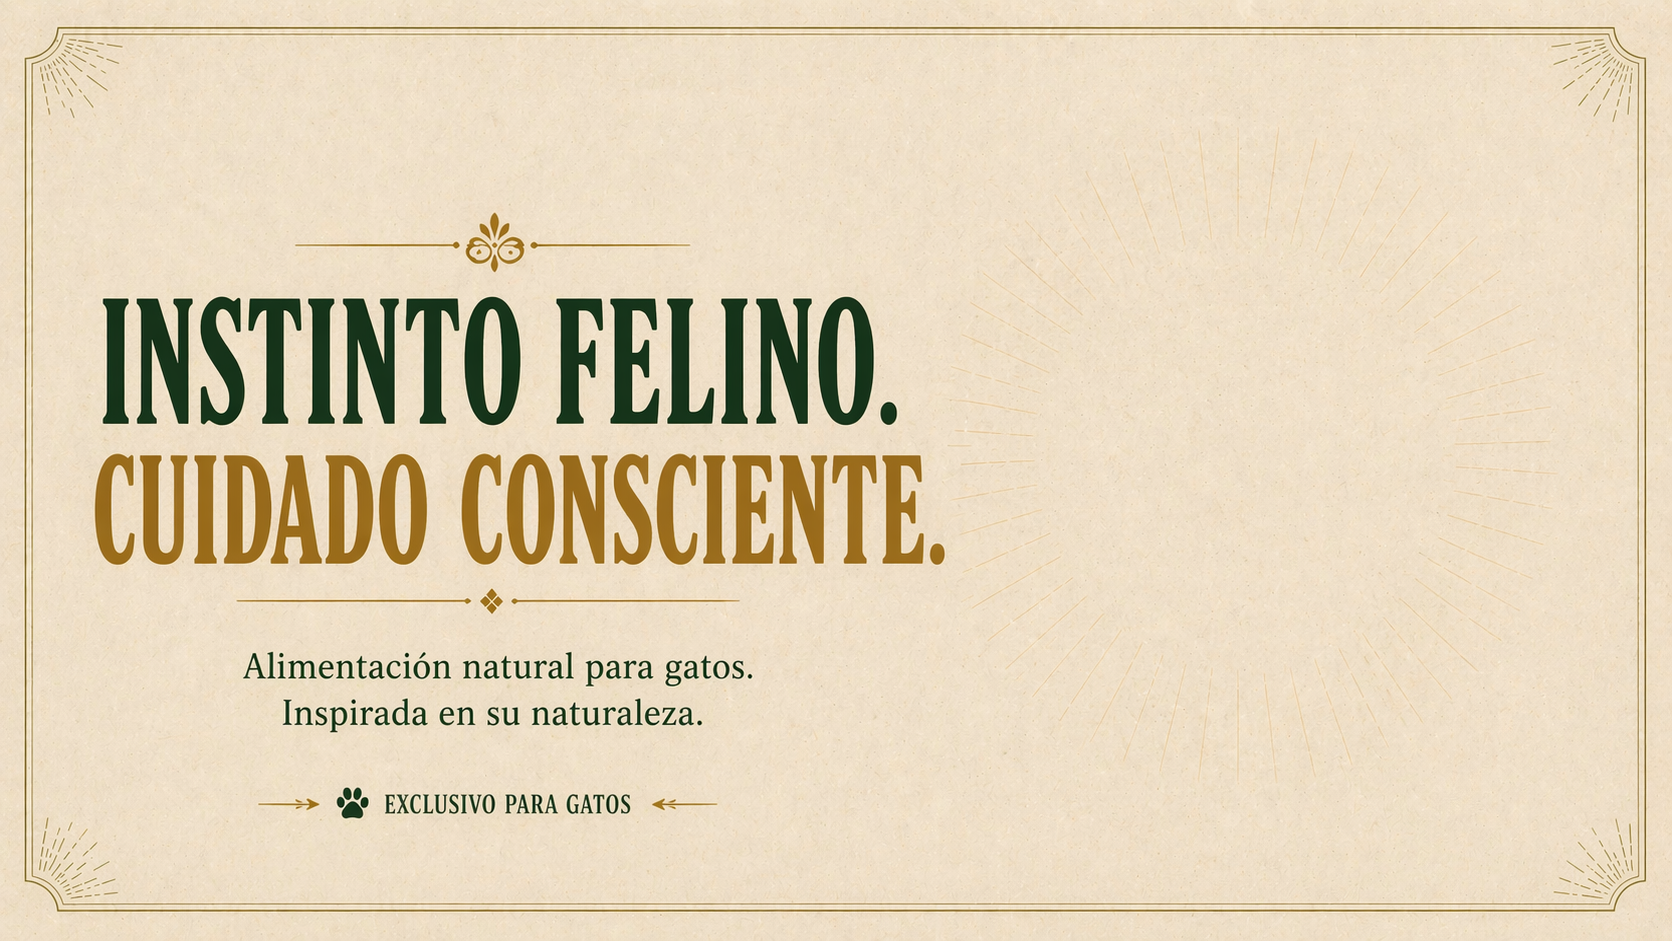
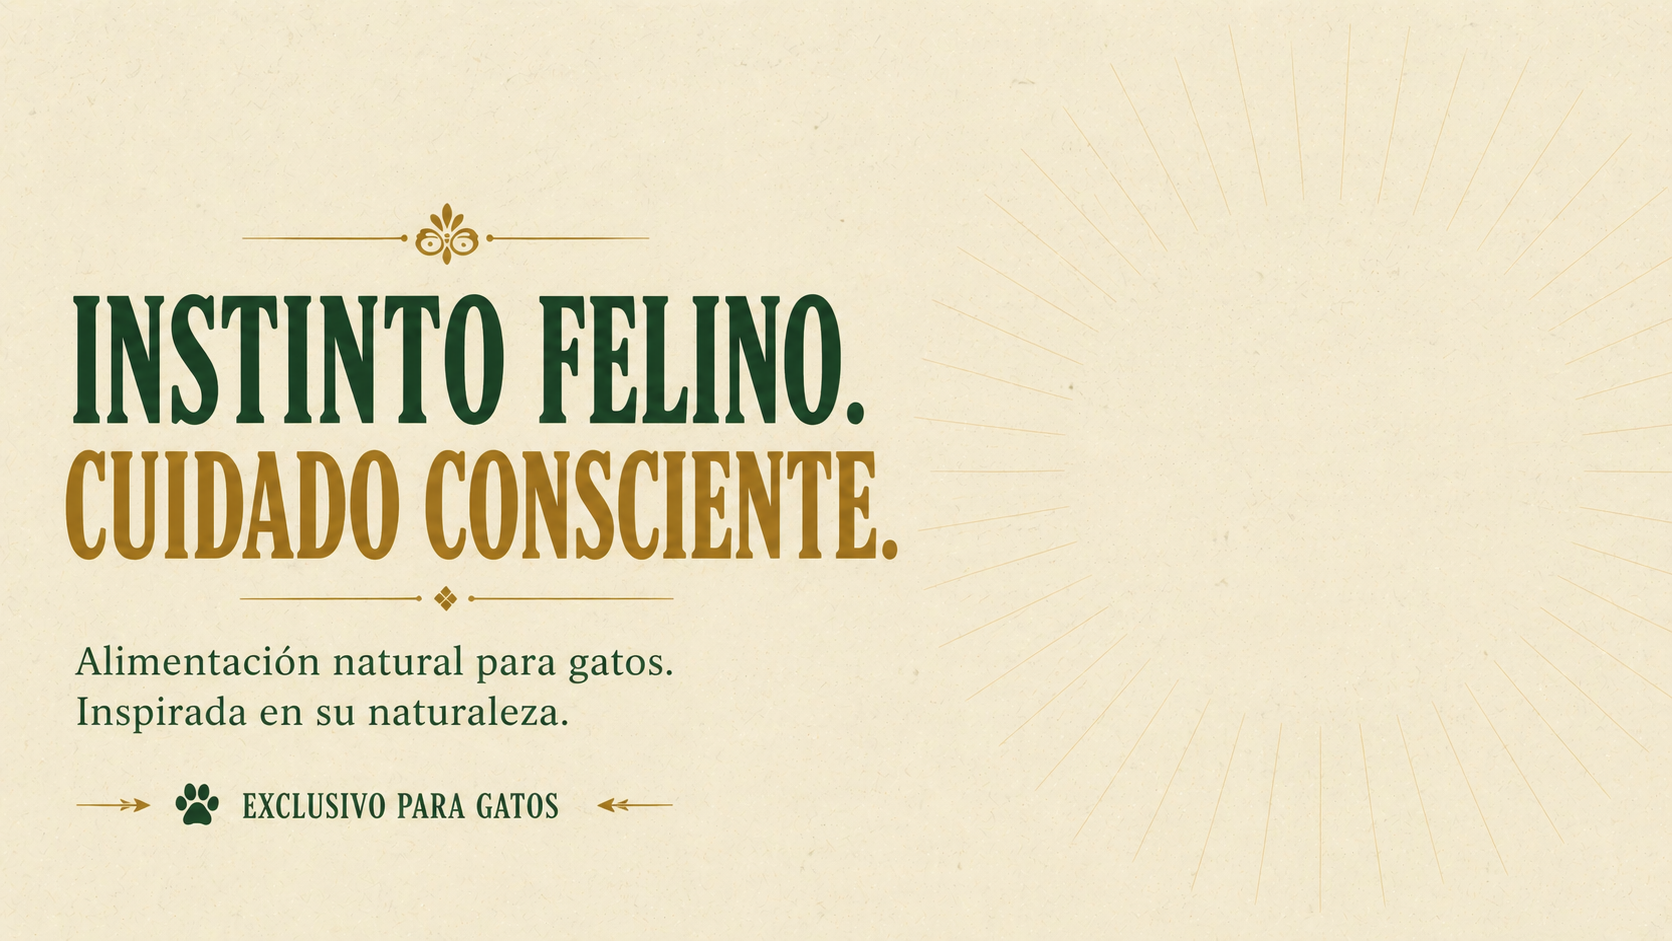
Add files via upload

diff --git a/index.html b/index.html
@@ -807,6 +807,25 @@
   .burger{display:none;width:32px;height:32px;cursor:pointer}
   .burger span{display:block;height:2px;background:var(--cream);margin:7px 0;transition:.3s}
 
+  /* ========== FEATURES BANNER (4 íconos debajo del hero) ========== */
+  .features-banner{
+    background:#f1ecd5;
+    padding:20px 0 30px;
+    width:100%;
+    display:flex;justify-content:center;
+    border-bottom:1px solid rgba(50,57,21,.08);
+  }
+  .features-banner img{
+    display:block;
+    width:96%;
+    max-width:1400px;
+    height:auto;
+  }
+  @media (max-width:600px){
+    .features-banner{padding:12px 0 18px}
+    .features-banner img{width:100%}
+  }
+
   /* ========== HERO (banner image chico + gato animado a la derecha) ========== */
   .hero{
     position:relative;
@@ -1947,13 +1966,18 @@
 <!-- ============= HERO ============= -->
 <section class="hero" id="inicio">
   <div class="hero-stage">
-    <img class="hero-banner" src="assets/hero-instinto.png?v=4" alt="BARFirenzina — Instinto felino, cuidado consciente"/>
+    <img class="hero-banner" src="assets/hero-instinto.png?v=5" alt="BARFirenzina — Instinto felino, cuidado consciente"/>
     <div class="hero-cat" aria-hidden="true">
       <video autoplay muted loop playsinline preload="auto" disablepictureinpicture>
         <source src="assets/hero.mp4" type="video/mp4" />
       </video>
     </div>
   </div>
+</section>
+
+<!-- ============= FEATURES BANNER (4 íconos) ============= -->
+<section class="features-banner" aria-label="Beneficios destacados">
+  <img src="assets/banner-features.png" alt="Carne real de calidad · Nutrición completa · Más salud y vitalidad · Dieta alineada con naturaleza"/>
 </section>
 
 <!-- ============= MARQUEE ============= -->
